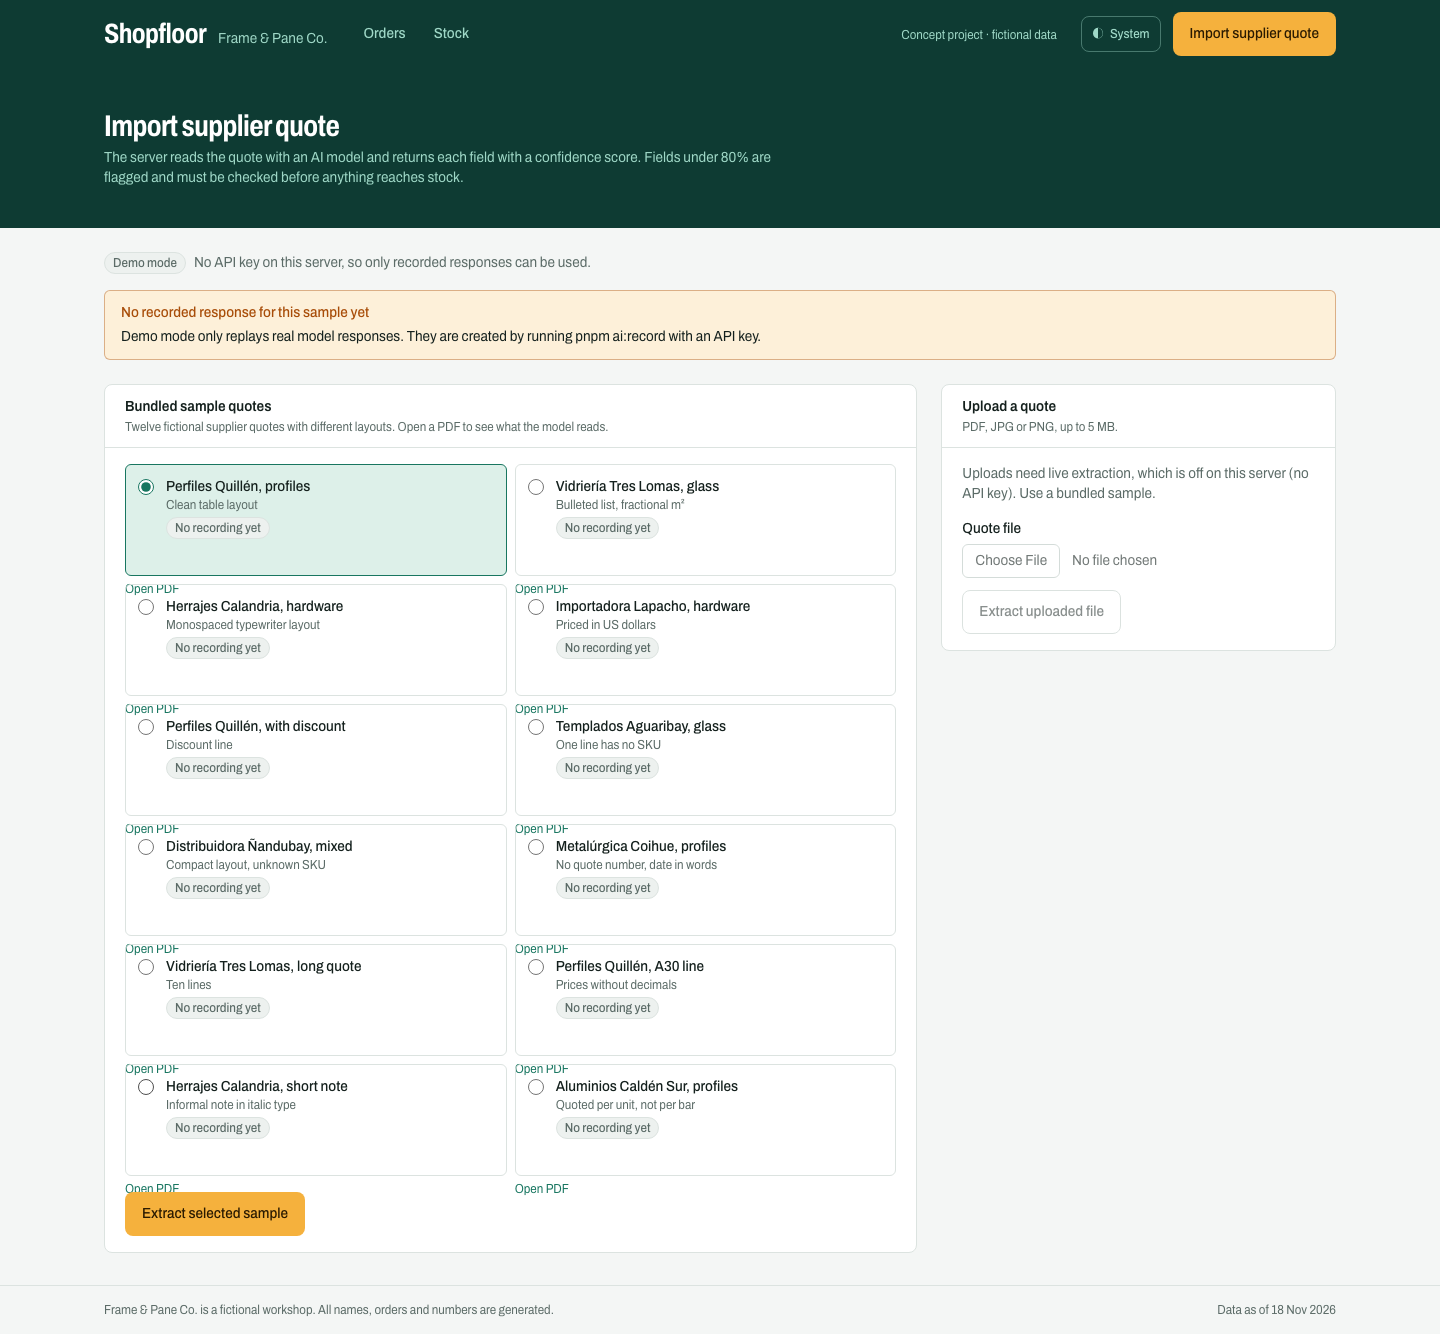
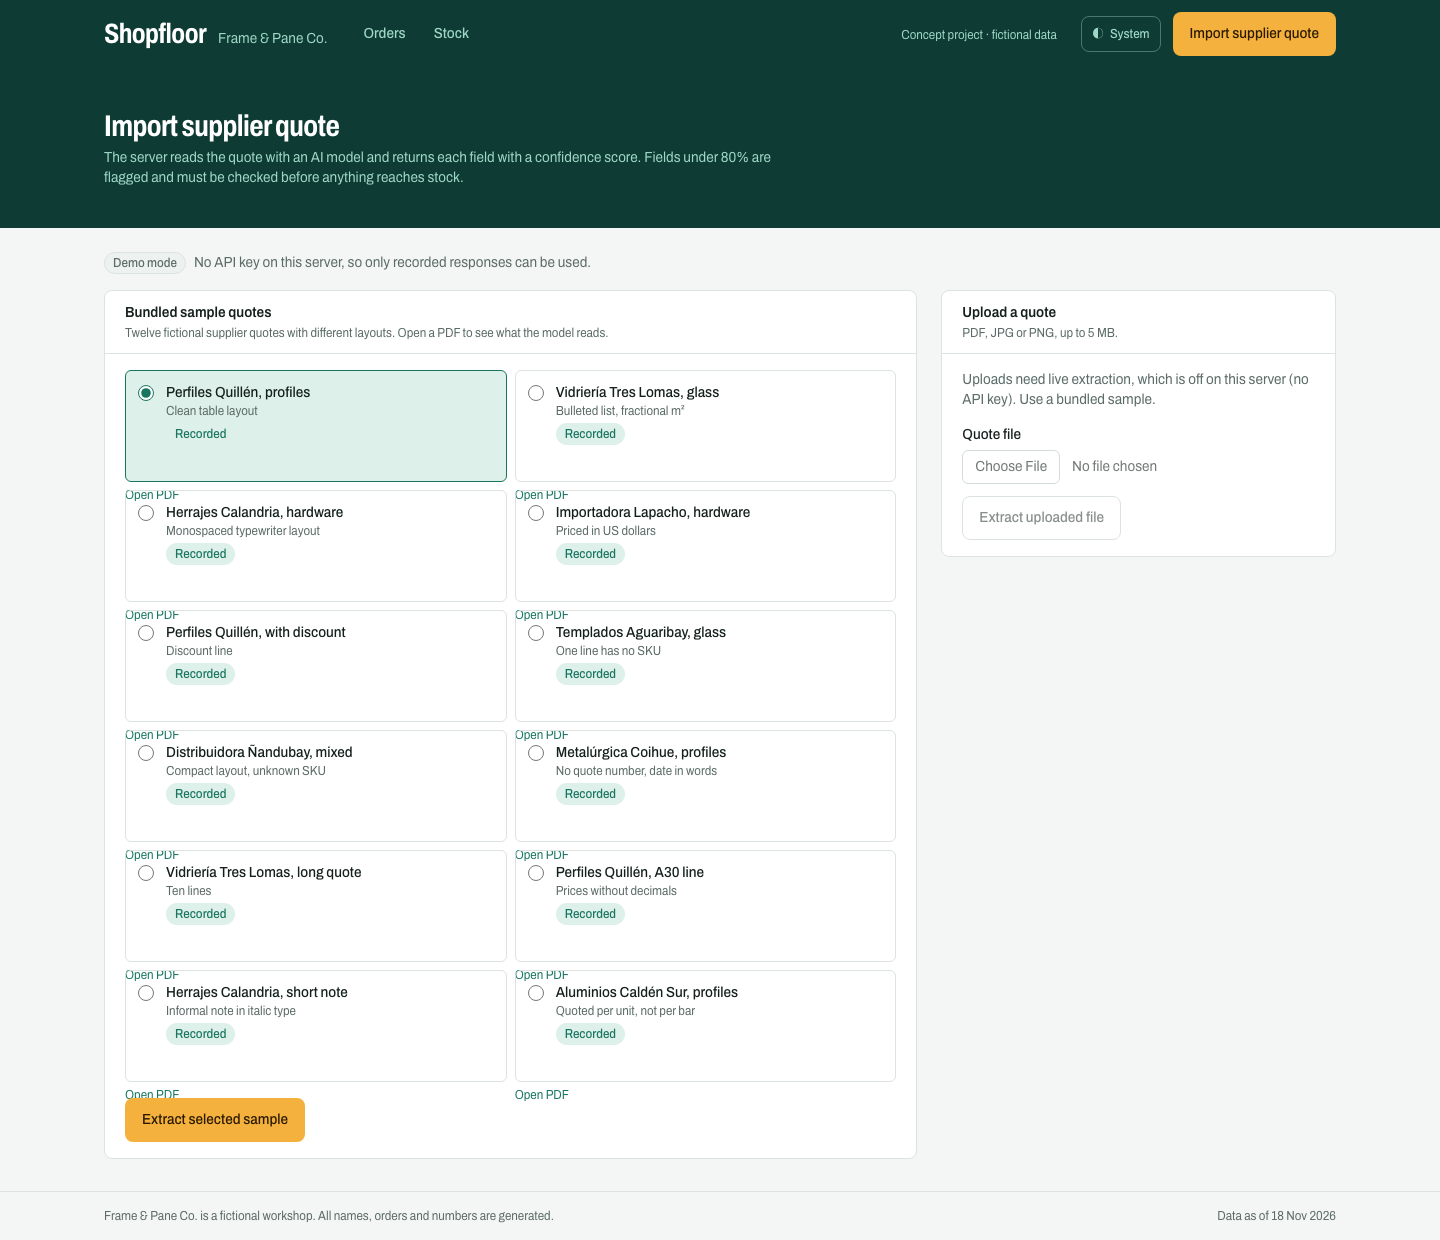
docs: add import review screenshot and eval results

diff --git a/README.md b/README.md
@@ -14,9 +14,13 @@ An operations dashboard for Frame & Pane Co., a small aluminum window and door w
 | --- | --- |
 | ![Order detail and edit form showing an inline error](docs/screenshots/order-detail.png) | ![Stock screen with the low stock count, materials table and low stock chart](docs/screenshots/stock.png) |
 
-| Import, demo mode | Phone |
+| Import, choosing a sample | Phone |
 | --- | --- |
-| ![Import page saying no recorded response exists yet](docs/screenshots/import-demo.png) | ![Orders on a 375 px wide screen, each order shown as a card](docs/screenshots/orders-mobile.png) |
+| ![Import page listing the 12 sample quotes, each marked as recorded](docs/screenshots/import-demo.png) | ![Orders on a 375 px wide screen, each order shown as a card](docs/screenshots/orders-mobile.png) |
+
+| Import, review screen |
+| --- |
+| ![Review screen with the extracted quote next to the document details, a confidence label on every field and the Import to stock button](docs/screenshots/import-review.png) |
 
 Screenshots are taken from the production build with `pnpm screenshots`.
 
@@ -87,21 +91,21 @@ The first time, install the browser with `pnpm exec playwright install chromium`
 4. The review screen highlights fields with confidence under 0.8. Each one must be corrected or ticked as checked. The server checks this too.
 5. On confirm, lines are matched to the catalog by SKU and unit and added to incoming stock. The summary lists matched and unmatched lines and links to `/stock`.
 
-The model id comes from `GEMINI_MODEL`, with a default set in `extract-quote.ts`. Live extraction is limited to 5 requests per 10 minutes per IP (in memory, best effort).
+The model is `gemini-3.6-flash`. The id comes from `GEMINI_MODEL`, with that default set in `extract-quote.ts`. Live extraction is limited to 5 requests per 10 minutes per IP (in memory, best effort).
 
-**Demo mode.** Without `GEMINI_API_KEY`, only the bundled samples can be imported and the result is replayed from `fixtures/recorded/<sample>.json`, shown with a "Demo mode · recorded response" badge. Those files must contain real model responses, saved by:
+**Demo mode.** Without `GEMINI_API_KEY`, only the bundled samples can be imported. The app replays 12 real responses from `gemini-3.6-flash`, one per sample, saved in `fixtures/recorded/<sample>.json` and shown with a "Demo mode · recorded response" badge. Each one passed validation on the first attempt. The replay runs through the same validation code as a live call. The files were saved by this command and are never edited by hand:
 
 ```bash
 GEMINI_API_KEY=... pnpm ai:record
 ```
 
-**Status: no recordings exist yet.** The project was built without an API key, so `fixtures/recorded/` is empty and demo mode says "No recorded response for this sample yet" for every sample. That is intended: responses are never written by hand.
-
 **Samples.** `pnpm samples` regenerates the 12 sample PDFs (`public/samples/`) and their ground truth (`fixtures/truth/`) from `scripts/sample-quotes.ts`. They cover a clean table, a bulleted list, a typewriter layout, US dollars, a discount line, a line without SKU, an unknown SKU, a quote without a number, a date written in words, prices without decimals, an informal note and a unit that does not match the catalog.
 
-### Eval results (pending first run)
+### Eval results
 
-TODO: run `GEMINI_API_KEY=... pnpm ai:eval`. It scores every extracted field against the ground truth (numbers compared after rounding to cents, text after normalizing case, accents and punctuation) and writes per-field accuracy and every failure to `evals/results.md`. No numbers are reported here until that run exists. `pnpm ai:eval --recorded` scores saved recordings without calling the API.
+`pnpm ai:eval --recorded` scores the saved recordings against the ground truth for each sample (numbers compared after rounding to cents, text after normalizing case, accents and punctuation). Result: **99.7% of 307 fields correct across the 12 sample quotes** (306 of 307).
+
+The one miss is a real model error. On the long Vidriería Tres Lomas quote, the model returned the supplier name as "Vidrier%C3%A1 Tres Lomas", with the accent written as URL-encoded characters, and still rated it 99% confident. That is why the review screen shows every extracted value for a person to compare, and not only the low-confidence ones. Per-field accuracy and every failure are in `evals/results.md`. `pnpm ai:eval` runs the same scoring against the live API when a key is set.
 
 ## Running locally
 
